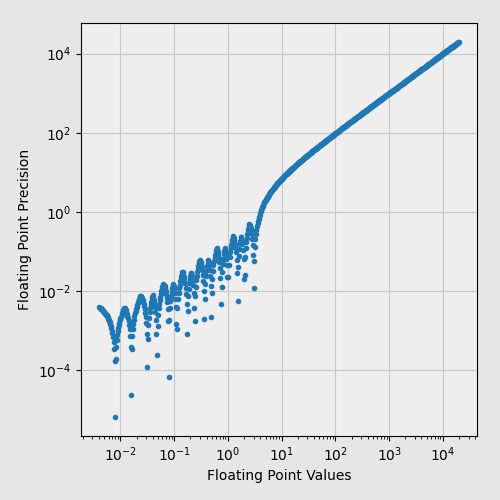
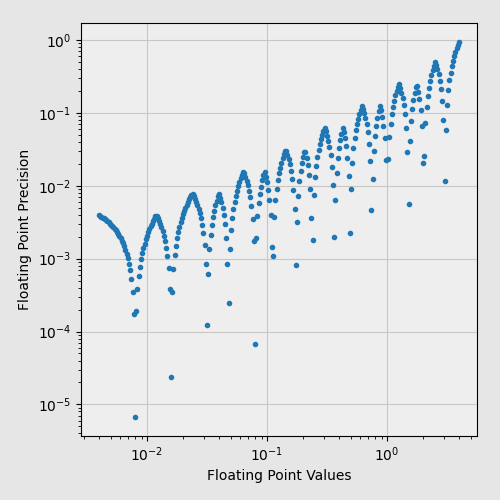
3-bit example

diff --git a/conversion_test.go b/conversion_test.go
@@ -46,56 +46,58 @@ func getToyfloatPositiveSample() []struct {
 
 // ------------------------
 
+func checkBadArguments(t *testing.T, i, min, max int, e error, remark string) {
+	inLimits := (i >= min) && (i <= max)
+
+	comment := remark
+	if len(comment) > 0 {
+		comment = " (" + remark + ")"
+	}
+
+	if (e != nil) && inLimits {
+		t.Fatalf("length=%d must work%s", i, comment)
+	}
+
+	if (e == nil) && !inLimits {
+		t.Fatalf("length=%d must result in an error%s", i, comment)
+	}
+}
+
 func TestX2BadArguments(t *testing.T) {
 	for i := -10; i <= 20; i++ {
-		if (i <= 3) || (i > 16) {
+		{
 			_, e := NewTypeX2(i, true)
-			if e == nil {
-				t.Fatalf("length=%d must result in an error", i)
-			}
+			checkBadArguments(t, i, 4, 16, e, "")
 		}
-
-		if (i <= 2) || (i > 16) {
+		{
 			_, e := NewTypeX2(i, false)
-			if e == nil {
-				t.Fatalf("length=%d must result in an error (unsigned)", i)
-			}
+			checkBadArguments(t, i, 3, 16, e, "unsigned")
 		}
 	}
 }
 
 func TestX3BadArguments(t *testing.T) {
 	for i := -10; i <= 20; i++ {
-		if (i <= 4) || (i > 16) {
+		{
 			_, e := NewTypeX3(i, true)
-			if e == nil {
-				t.Fatalf("length=%d must result in an error", i)
-			}
+			checkBadArguments(t, i, 5, 16, e, "")
 		}
-
-		if (i <= 3) || (i > 16) {
+		{
 			_, e := NewTypeX3(i, false)
-			if e == nil {
-				t.Fatalf("length=%d must result in an error (unsigned)", i)
-			}
+			checkBadArguments(t, i, 4, 16, e, "unsigned")
 		}
 	}
 }
 
 func TestX4BadArguments(t *testing.T) {
 	for i := -10; i <= 20; i++ {
-		if (i <= 5) || (i > 16) {
+		{
 			_, e := NewTypeX4(i, true)
-			if e == nil {
-				t.Fatalf("length=%d must result in an error", i)
-			}
+			checkBadArguments(t, i, 6, 16, e, "")
 		}
-
-		if (i <= 4) || (i > 16) {
+		{
 			_, e := NewTypeX4(i, false)
-			if e == nil {
-				t.Fatalf("length=%d must result in an error (unsigned)", i)
-			}
+			checkBadArguments(t, i, 5, 16, e, "unsigned")
 		}
 	}
 }

diff --git a/readme/example.go b/readme/example.go
@@ -34,6 +34,7 @@ func main() {
 	toyfloat15x3, err15x3 := toyfloat.NewTypeX3(15, true)
 	toyfloat5x3, err5x3 := toyfloat.NewTypeX3(5, true)
 	toyfloat5x2, err5x2 := toyfloat.NewTypeX2(5, true)
+	toyfloat3x2u, err3x2u := toyfloat.NewTypeX2(3, false)
 
 	exitOnError(err12)
 	exitOnError(err13)
@@ -41,6 +42,7 @@ func main() {
 	exitOnError(err15x3)
 	exitOnError(err5x3)
 	exitOnError(err5x2)
+	exitOnError(err3x2u)
 
 	const input = 1.567
 	fmt.Printf("Input:   %f\n\n", input)
@@ -68,6 +70,10 @@ func main() {
 	tf = toyfloat5x2.Encode(input)
 	f = toyfloat5x2.Decode(tf)
 	report("5-bit signed with 2-bit exponent", tf, f, input)
+
+	tf = toyfloat3x2u.Encode(input)
+	f = toyfloat3x2u.Decode(tf)
+	report("3-bit unsigned with 2-bit exponent", tf, f, input)
 
 	println()
 	println("Delta encoding (12-bit)")

diff --git a/images/gen_precision.go b/images/gen_precision.go
@@ -67,6 +67,9 @@ func main() {
 	toyfloat4x3u, err4x3u := toyfloat.NewTypeX3(4, false)
 	exitOnError(err4x3u)
 
+	toyfloat3x2u, err3x2u := toyfloat.NewTypeX2(3, false)
+	exitOnError(err3x2u)
+
 	toyfloat16, err16 := toyfloat.NewTypeX4(16, true)
 	exitOnError(err16)
 
@@ -112,6 +115,10 @@ func main() {
 
 	generate("precision4x3u.tsv", func(x float64) float64 {
 		return toyfloat4x3u.Decode(toyfloat4x3u.Encode(x))
+	})
+
+	generate("precision3x2u.tsv", func(x float64) float64 {
+		return toyfloat3x2u.Decode(toyfloat3x2u.Encode(x))
 	})
 
 	generate("precision16.tsv", func(x float64) float64 {

diff --git a/images/plot.py b/images/plot.py
@@ -137,7 +137,8 @@ if __name__ == "__main__":
     make_image('precision15x3.tsv', 'precision15x3.png', 3.0)
     make_image('precision15x2.tsv', 'precision15x2.png', 3.0)
     make_image('precision8x3.tsv', 'precision8x3.png')
-    make_image('precision4x3u.tsv', 'precision4x3u.png')
+    make_image('precision4x3u.tsv', 'precision4x3u.png', 4.0)
+    make_image('precision3x2u.tsv', 'precision3x2u.png', 3.0)
     make_image('precision16.tsv', 'precision16.png')
     make_image('precision16u.tsv', 'precision16u.png')
     make_image('precision16x3u.tsv', 'precision16x3u.png')

diff --git a/conversion.go b/conversion.go
@@ -1,4 +1,4 @@
-// Package toyfloat provides tiny (4 to 16 bits)
+// Package toyfloat provides tiny (3 to 16 bits)
 // floating-point number formats for serialization.
 package toyfloat
 

diff --git a/README.md b/README.md
@@ -67,6 +67,7 @@ func main() {
 	toyfloat15x3, err15x3 := toyfloat.NewTypeX3(15, true)
 	toyfloat5x3, err5x3 := toyfloat.NewTypeX3(5, true)
 	toyfloat5x2, err5x2 := toyfloat.NewTypeX2(5, true)
+	toyfloat3x2u, err3x2u := toyfloat.NewTypeX2(3, false)
 
 	exitOnError(err12)
 	exitOnError(err13)
@@ -74,6 +75,7 @@ func main() {
 	exitOnError(err15x3)
 	exitOnError(err5x3)
 	exitOnError(err5x2)
+	exitOnError(err3x2u)
 
 	const input = 1.567
 	fmt.Printf("Input:   %f\n\n", input)
@@ -101,6 +103,10 @@ func main() {
 	tf = toyfloat5x2.Encode(input)
 	f = toyfloat5x2.Decode(tf)
 	report("5-bit signed with 2-bit exponent", tf, f, input)
+
+	tf = toyfloat3x2u.Encode(input)
+	f = toyfloat3x2u.Decode(tf)
+	report("3-bit unsigned with 2-bit exponent", tf, f, input)
 
 	println()
 	println("Delta encoding (12-bit)")
@@ -175,6 +181,12 @@ Delta:   0.059063
 Encoded: 0xD
 Decoded: 1.519231
 Delta:   0.047769
+
+3-bit unsigned with 2-bit exponent
+----------------------------------
+Encoded: 0x7
+Decoded: 2.038462
+Delta:   0.471462
 
 
 Delta encoding (12-bit)
